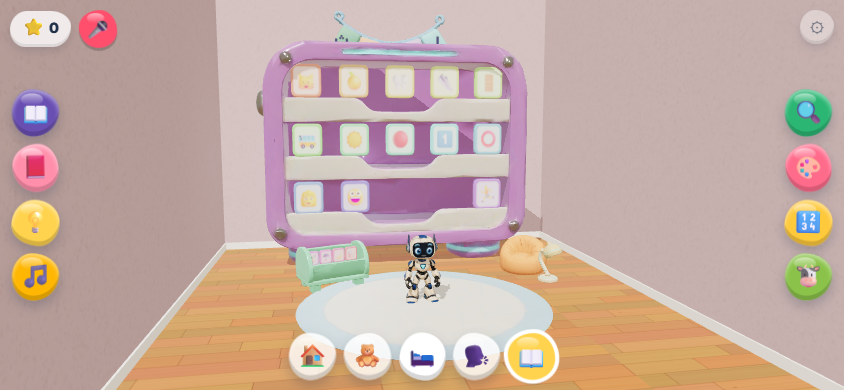
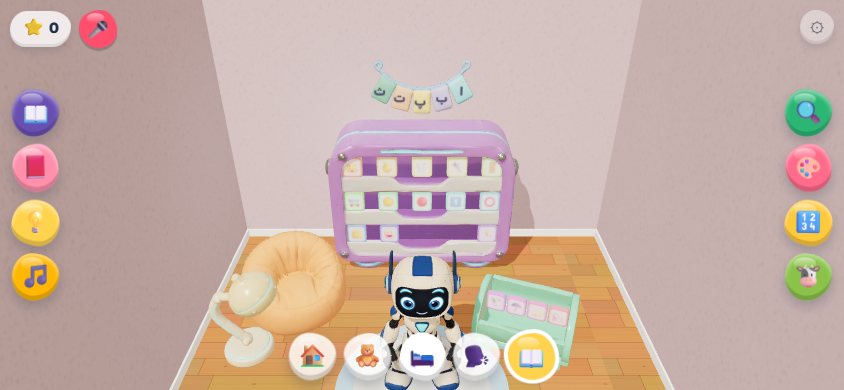
Library: built-in sizes as % of Googoo (shelf 120, bin 45, beanbag 55, lamp 70, garland 80 wide, rug 115), Googoo normal size, camera re-framed, slot-sized book tap boxes

Changed region(s): [[0.1232, 0.0308, 1.0, 1.0], [0.2156, 0.0, 0.2773, 0.1846]]

diff --git a/index.html b/index.html
@@ -417,7 +417,7 @@ const windowGlow=new THREE.PointLight(0xcfe8ff,.45,9,2);windowGlow.position.set(
 const fill=new THREE.DirectionalLight(0xffe2c4,.18);fill.position.set(5,4,8);scene.add(fill);
 // walls per room from data/layout.json (WALLS[room]: left/right x, back z, floor tint); the shell is built at RW x RD and moved/stretched here
 const WALLS={},wallSides=room.children.filter(o=>o.material===wallMat&&o!==back),skirts=room.children.filter(o=>o.material===skirtMat);winParts.forEach(o=>o.userData.z0=o.position.z);
-WALLS.library={left:-7,right:7,back:-8,floorRect:{left:-7,right:7,back:-8,front:14},floor:'#f2c48f'}; // library defaults until the layout has a "library" room (warm floor)
+WALLS.library={left:-6,right:6,back:-6,floorRect:{left:-6,right:6,back:-6,front:14},floor:'#f2c48f'}; // library defaults until the layout has a "library" room (warm floor)
 // the floor has its own rectangle (W.floorRect: left/right/back/front; missing = under the walls, to the front edge), so a wall never moves or stretches it; wood tiling follows its size
 function applyWalls(s){const W=WALLS[s]||{},l=W.left??-RW/2,r=W.right??RW/2,b=W.back??BACK,F=BACK+RD,cx=(l+r)/2,fr=W.floorRect||{},fl=fr.left??l,fR=fr.right??r,fb=fr.back??b,ff=fr.front??F;
   back.scale.x=skirts[0].scale.x=(r-l)/RW;back.position.set(cx,RH/2,b);skirts[0].position.set(cx,.14,b+.03);
@@ -1303,9 +1303,10 @@ const PROPS={
   bed:{f:'bedroom_bed',k:.75,ry:-.15,x:-.7,z:-4.9,room:'bed',cast:1}, lamp:{f:'bedroom_lamp',k:.7,x:2.4,z:-4.6,on:'nightstand',room:'bed'},
   nightstand:{f:'bedroom_nightstand',k:.225,x:2.4,z:-4.6,room:'bed'}, wardrobe:{f:'bedroom_wardrobe',k:.447,x:6,back:1,room:'bed',cast:1,pt:{x:3}}, rug:{f:'bedroom_rug',k:1.2,x:0,z:.2,sy:.12,room:'bed'},
   // library (Tripo, 2026-10-22). lib_shelf = the big shelf (category books on its boards), lib_bin = the small one (story books stand in it); the file names come from the layout
-  lib_shelf:{f:'library_bookshelf',k:2,x:0,back:1,room:'library',cast:1,pt:{k:.62}}, lib_bin:{f:'library_book_bin',k:.9,x:-2.6,z:-2.2,ry:.35,room:'library'},
-  lib_rug:{f:'bedroom_rug',k:1.2,x:0,z:.4,sy:.12,room:'library'}, lib_lamp:{f:'library_reading_lamp',k:.6,x:4.6,z:-1.4,ry:-.6,room:'library',nosq:1},
-  lib_beanbag:{f:'library_beanbag',k:.55,x:4.2,z:-2.8,ry:-.5,room:'library',nosq:1}, lib_garland:{f:'library_letter_garland',k:1.1,x:0,y:7.4,back:1,room:'library'}};
+  // sizes as rendered % of Googoo's height (as Design mode shows them): shelf 120, bin 45, beanbag 55, lamp 70, garland 80 wide, rug 115 long
+  lib_shelf:{f:'library_bookshelf',k:1.085,x:0,back:1,room:'library',cast:1}, lib_bin:{f:'library_book_bin',k:1.093,x:2.7,z:-1.2,ry:-.35,room:'library'},
+  lib_rug:{f:'bedroom_rug',k:.70,x:0,z:.3,sy:.12,room:'library'}, lib_lamp:{f:'library_reading_lamp',k:1.139,x:-4.4,z:-.9,ry:.6,room:'library',nosq:1},
+  lib_beanbag:{f:'library_beanbag',k:.928,x:-3.6,z:-2.6,ry:.5,room:'library',nosq:1}, lib_garland:{f:'library_letter_garland',k:.651,x:0,y:4.75,back:1,room:'library'}};
 const TEXK=['map','normalMap','roughnessMap','metalnessMap','emissiveMap','aoMap'],FLAT=['carpet','rug','lib_rug']; // floor mats: no tap box, rays pass through (taps on the floor still go home)
 function roomProps(s){winParts.forEach(o=>o.visible=!(GOT.has('window')&&s==='home')&&s!=='library'); // the library has no window (shelf and garland on that wall)
   newRug.visible=!(GOT.has('carpet')&&s==='home'||GOT.has('rug')&&s==='bed'||GOT.has('lib_rug')&&s==='library')}
@@ -1321,7 +1322,7 @@ function loadProp(id,ld=new THREE.GLTFLoader()){const P=PROPS[id],room=P.room;ld
     if(P.back)z=(WALLS[room]?.back??BACK)-bb.min.z+.03;if(P.side)x=(WALLS[room]?.left??-RW/2)-bb.min.z+.03; // flush with the back / left wall
     if(old)furnGroup.remove(old);addF(id,g,x,z,P.ry||0,room);
     m.traverse(o=>{if(o.isMesh){o.castShadow=!!P.cast;o.receiveShadow=true;if(FLAT.includes(id))o.raycast=()=>{}}});
-    if(FLAT.includes(id)||id==='bed'||id==='lib_shelf'||id==='lib_bin')g.remove(g.children[g.children.length-1]); // no padded tap box: the big bed's would cover the lamp and nightstand, rugs would swallow floor taps, the library shelves would cover their books
+    if(FLAT.includes(id)||id==='bed'||id.startsWith('lib_'))g.remove(g.children[g.children.length-1]); // no padded tap box: the big bed's would cover the lamp and nightstand, rugs would swallow floor taps, library pieces would cover the books (their own meshes still take taps)
     if(P.y)g.position.y=P.y;Object.assign(g.userData,{m,base:m.scale.clone(),z0:z,y0:P.y||0,ry0:P.ry||0,top:bb.max.y,pt:P.pt,on:P.on});if(P.nosq)g.userData.nosq=1;if(P.off)g.userData.off=1;
     g.visible=g.userData.room===curRoom&&!g.userData.off;
     if(id==='lamp'){const mt=g.userData.shade=gl.scene.getObjectByProperty('isMesh',true).material;mt.emissive=new THREE.Color(0xffc94d);mt.emissiveMap=mt.map;mt.emissiveIntensity=lightsOn?.15:.6;if(lampLight.parent)g.add(lampLight)}
@@ -1373,8 +1374,8 @@ function furnById(id){return furnGroup.children.find(g=>g.userData.furn===id)}
 // (N levels, evenly spaced), so they follow a shelf that is moved or resized. Which shelf and the order: layout.json rooms.library.books {big:[...], small:[...]} of
 // 'cat:<category>' / 'story:<id>'; not listed: categories big, stories small (stories put on the big shelf stand in a row on its top). Tap a book: it flies out and opens (openBook), then the page runs as before.
 const LIBSH={big:'lib_shelf',small:'lib_bin'},LIBN=5,libGroup=new THREE.Group();scene.add(libGroup);libGroup.visible=false;
-GOO.library={x:0,z:0,s:.55,portrait:{s:.65}};CAMS.library={phone:{zoom:1.2,height:.55,yaw:0,pitch:6},wide:{zoom:2,height:.5,yaw:-10,pitch:6}}; // defaults until the layout has a library room: he stands lower, the shelf shows above him
-let LIBORDER=null,libItems=[],libMesh=null,libPose=[],libHide=-1,libStoryI=0;
+GOO.library={x:0,z:0};CAMS.library={phone:{zoom:1.3,height:.9,yaw:0,pitch:30},wide:{zoom:1.35,height:1.05,yaw:0,pitch:30}}; // defaults until the layout has a library room: he stands lower, the shelf shows above him
+let LIBORDER=null,libItems=[],libMesh=null,libHit=null,libPose=[],libHide=-1,libStoryI=0;
 const libCats=()=>CATS.filter(c=>V2.some(id=>SW[id].cat===c));
 function libAll(){return [...libCats().map(c=>({key:'cat:'+c,kind:'cat',id:c,pic:SW[V2.find(id=>SW[id].cat===c)].pic,name:c})),
   ...STORIES.map(s=>({key:'story:'+s.id,kind:'story',id:s.id,s,pic:s.cover,name:s.title_en||s.id}))].slice(0,LIBN*LIBN)}
@@ -1384,6 +1385,7 @@ function libAssign(){const all=libAll(),keys=new Set(all.map(i=>i.key)),O=LIBORD
 const libTex=new THREE.CanvasTexture(Object.assign(document.createElement('canvas'),{width:512,height:512})) // 512: covers are ~40 px on a phone; 1.3 MB on the GPU;libTex.encoding=THREE.sRGBEncoding;libTex.anisotropy=4;
 const libMat=new THREE.MeshStandardMaterial({map:libTex,roughness:.6});libMat.customProgramCacheKey=()=>'libBooks';
 libMat.onBeforeCompile=sh=>{sh.vertexShader='attribute vec2 aCell;\n'+sh.vertexShader.replace('#include <uv_vertex>','#include <uv_vertex>\n\tvUv=(aCell+.04+vUv*.92)/'+LIBN+'.;')}; // each book shows its own atlas cell
+const libHitGeo=new THREE.BoxGeometry(1,1,1),libHitMat=new THREE.MeshBasicMaterial({visible:false}); // tap boxes: never drawn, only raycast
 const libGeo=(()=>{const s=new THREE.Shape(),r=.14,x=-.5,y=-.5; // a 1x1x1 rounded book: front (+z) = the cover cell, every other face = the cell's border colour
   s.moveTo(x+r,y);s.lineTo(-x-r,y);s.quadraticCurveTo(-x,y,-x,y+r);s.lineTo(-x,-y-r);s.quadraticCurveTo(-x,-y,-x-r,-y);s.lineTo(x+r,-y);s.quadraticCurveTo(x,-y,x,-y-r);s.lineTo(x,y+r);s.quadraticCurveTo(x,y,x+r,y);
   const g=new THREE.ExtrudeGeometry(s,{depth:.8,bevelEnabled:true,bevelThickness:.1,bevelSize:.05,bevelSegments:2,curveSegments:3});g.computeBoundingBox();
@@ -1395,7 +1397,9 @@ function buildBooks(){libItems=libAll();const n=libItems.length,cv=libTex.image,
     cx.font=(C*.52|0)+'px "Segoe UI Emoji","Apple Color Emoji","Noto Color Emoji",sans-serif';cx.textAlign='center';cx.textBaseline='middle';cx.fillText(it.pic,x+C/2,y+C*.54)});libTex.needsUpdate=true;
   const g=libGeo.clone(),cell=new Float32Array(n*2);libItems.forEach((it,i)=>{cell[2*i]=i%LIBN;cell[2*i+1]=LIBN-1-(i/LIBN|0)});g.setAttribute('aCell',new THREE.InstancedBufferAttribute(cell,2));
   if(libMesh){libGroup.remove(libMesh);libMesh.geometry.dispose()}
-  libMesh=new THREE.InstancedMesh(g,libMat,n);libMesh.userData.libBooks=1;libMesh.receiveShadow=true;libMesh.frustumCulled=false;libGroup.add(libMesh);layoutBooks()}
+  if(libHit){libGroup.remove(libHit)}
+  libMesh=new THREE.InstancedMesh(g,libMat,n);libMesh.receiveShadow=true;libMesh.frustumCulled=false;libMesh.raycast=()=>{};libGroup.add(libMesh);
+  libHit=new THREE.InstancedMesh(libHitGeo,libHitMat,n);libHit.userData.libBooks=1;libHit.frustumCulled=false;libGroup.add(libHit);layoutBooks()} // taps hit the invisible, bigger boxes (the full slot): at least ~44 px on a phone
 // a piece's box in its own group's space (so a turned shelf still lines up)
 function localBox(g,inv){const bb=new THREE.Box3(),mt=new THREE.Matrix4();g.userData.m.traverse(o=>{if(o.isMesh){if(!o.geometry.boundingBox)o.geometry.computeBoundingBox();bb.union(o.geometry.boundingBox.clone().applyMatrix4(mt.multiplyMatrices(inv,o.matrixWorld)))}});return bb}
 // the shelf boards, measured once per model from its geometry: heights (0..1 of the box) of upward faces across the middle third. None found = evenly spaced levels
@@ -1407,22 +1411,22 @@ function shelfLevels(g,inv,bb){const m=g.userData.m;if(m.userData.lv)return m.us
   if(!lv.length){const N=Math.max(1,Math.min(5,Math.round(S.y/(S.x*.3))));lv=[...Array(N).keys()].map(i=>.07+i*.86/N)}
   return m.userData.lv=lv}
 function layoutBooks(){if(!libMesh||!RB0)return;const A=libAssign(),idx={},Z=new THREE.Matrix4().makeScale(0,0,0),mt=new THREE.Matrix4(),q=new THREE.Quaternion(),inv=new THREE.Matrix4();libPose=[];
-  libItems.forEach((it,i)=>{idx[it.key]=i;libMesh.setMatrixAt(i,Z)});
+  libItems.forEach((it,i)=>{idx[it.key]=i;libMesh.setMatrixAt(i,Z);libHit.setMatrixAt(i,Z)});
   const shelf=k=>{const g=furnById(LIBSH[k]);return g&&g.userData.m&&!g.userData.off?g:null};let big=A.big,small=A.small;
   if(!shelf('small')){big=[...big,...small];small=[]}else if(!shelf('big')){small=[...big,...small];big=[]} // one shelf missing or hidden: all books on the other
   for(const [k,keys0] of [['big',big],['small',small]]){const g=shelf(k);if(!g||!keys0.length)continue;g.updateMatrixWorld(true);inv.copy(g.matrixWorld).invert();
     const bb=localBox(g,inv),S=bb.getSize(V3()),isBig=k==='big',top=isBig?keys0.filter(x=>x[0]==='s'):[],keys=isBig?keys0.filter(x=>x[0]==='c'):keys0, // big shelf: categories on its boards, stories (if any) in a row on its top; small shelf (bin): standing in it
-      put=(key,x,y,z,bw,bh,bt)=>{const i=idx[key];if(i===undefined)return;const p=V3().set(x,y,z).applyMatrix4(g.matrixWorld);g.getWorldQuaternion(q);libPose[i]={p,q:q.clone(),bw,bh,bt};
-        if(i!==libHide)libMesh.setMatrixAt(i,mt.compose(p,q,V3().set(bw,bh,bt)))};
+      put=(key,x,y,z,bw,bh,bt,hw,hy=y,hh=bh*1.15)=>{const i=idx[key];if(i===undefined)return;const p=V3().set(x,y,z).applyMatrix4(g.matrixWorld);g.getWorldQuaternion(q);libPose[i]={p,q:q.clone(),bw,bh,bt};
+        libHit.setMatrixAt(i,mt.compose(V3().set(x,hy,z).applyMatrix4(g.matrixWorld),q,V3().set(Math.max(bw,hw),Math.max(bh,hh),bt*1.5)));if(i!==libHide)libMesh.setMatrixAt(i,mt.compose(p,q,V3().set(bw,bh,bt)))};
     if(!isBig){const n=keys.length,bw=Math.min(S.y*1.2*.9,S.x*.86/n*.92),bh=bw/.9,bt=bw*.24;
-      keys.forEach((key,j)=>put(key,(bb.min.x+bb.max.x)/2+(j-(n-1)/2)*S.x*.86/n,bb.min.y+S.y*.55+bh/2,(bb.min.z+bb.max.z)/2,bw,bh,bt));continue} // most of the cover above the rim
-    const lv=shelfLevels(g,inv,bb).slice().reverse(),L=lv.length,per=Math.max(1,Math.ceil(keys.length/L)),slot=S.x*.8/per, // levels from the top down
+      keys.forEach((key,j)=>put(key,(bb.min.x+bb.max.x)/2+(j-(n-1)/2)*S.x*.86/n,bb.min.y+S.y*.55+bh/2,(bb.min.z+bb.max.z)/2,bw,bh,bt,S.x*.86/n*.98));continue} // most of the cover above the rim
+    const lv=shelfLevels(g,inv,bb).slice().reverse(),L=lv.length,per=Math.max(1,Math.ceil(keys.length/L)),slot=S.x*.86/per, // levels from the top down
       gaps=lv.map((y,i)=>(i?lv[i-1]:.93)-y-.06),bw=Math.min(Math.min(...gaps)*S.y*.85*.9,slot*.84),bh=bw/.9,bt=bw*.24,
       out=[...Array(per).keys()].sort((a,b)=>Math.abs(b-(per-1)/2)-Math.abs(a-(per-1)/2)); // a short bottom row keeps to the ends: Googoo stands in front of the middle
     keys.forEach((key,j)=>{const r=j/per|0,cnt=Math.min(per,keys.length-r*per),last=r===L-1,c=last&&cnt<per?out.slice(0,cnt).sort((a,b)=>a-b)[j%per]:j%per;
-      put(key,bb.min.x+S.x*.1+slot*(c+.5+(last?0:(per-cnt)/2)),bb.min.y+(lv[Math.min(r,L-1)]+.06)*S.y+bh/2,bb.max.z-bt/2-S.z*.12,bw,bh,bt)});
-    top.forEach((key,j)=>put(key,(bb.min.x+bb.max.x)/2+(j-(top.length-1)/2)*Math.min(S.x*.84/top.length,bw*1.3),bb.max.y+bh*.46,(bb.min.z+bb.max.z)/2,bw,bh,bt))}
-  libMesh.instanceMatrix.needsUpdate=true;garlandLetters()}
+      put(key,bb.min.x+S.x*.07+slot*(c+.5+(last?0:(per-cnt)/2)),bb.min.y+(lv[Math.min(r,L-1)]+.06)*S.y+bh/2,bb.max.z-bt/2-S.z*.12,bw,bh,bt,slot*.98,bb.min.y+(lv[Math.min(r,L-1)]+(gaps[Math.min(r,L-1)]+.06)/2)*S.y,(gaps[Math.min(r,L-1)]+.06)*S.y*.96)}); // tap box = the whole slot between two boards
+    top.forEach((key,j)=>put(key,(bb.min.x+bb.max.x)/2+(j-(top.length-1)/2)*Math.min(S.x*.84/top.length,bw*1.3),bb.max.y+bh*.46,(bb.min.z+bb.max.z)/2,bw,bh,bt,Math.min(S.x*.84/top.length,bw*1.3)*.98))}
+  libMesh.instanceMatrix.needsUpdate=libHit.instanceMatrix.needsUpdate=true;garlandLetters()}
 // the letter garland's five blank flags get ا ب پ ت ث (right to left), drawn on one see-through plane in front of it (flag spots measured from the model's preview)
 const GARL=[[.88,.55,'ا'],[.69,.69,'ب'],[.48,.76,'پ'],[.28,.69,'ت'],[.09,.55,'ث']];let garTex=null;
 function garlandLetters(){const g=furnById('lib_garland');if(!g||!g.userData.m)return;let pl=g.userData.letters;
@@ -1663,7 +1667,7 @@ renderer.domElement.addEventListener('pointermove',e=>{if(!down)return;const dx=
 addEventListener('pointerup',e=>{if(!down)return;
   if(!down.moved){const h=down.h;
     if(h&&h.object.userData.item){answer('item',h.object.userData.item)}
-    else if(h&&h.object.userData.libBooks){if(h.instanceId!=null)openBook(h.instanceId)}
+    else if(h&&h.object.userData.libBooks){if(h.instanceId!=null)openBook(h.instanceId)} // libHit: the books' tap boxes
     else if(h&&h.object.userData.furn){tapFurniture(h.object.userData.furn)}
     else if(h&&h.object===ball){bv.set((Math.random()-.5)*3,5,(Math.random()-.5)*2);SFX.kick()}
     else if(h&&h.object.userData.bubble)popBubble(h.object);

diff --git a/src_pash-robot.html b/src_pash-robot.html
@@ -416,7 +416,7 @@ const windowGlow=new THREE.PointLight(0xcfe8ff,.45,9,2);windowGlow.position.set(
 const fill=new THREE.DirectionalLight(0xffe2c4,.18);fill.position.set(5,4,8);scene.add(fill);
 // walls per room from data/layout.json (WALLS[room]: left/right x, back z, floor tint); the shell is built at RW x RD and moved/stretched here
 const WALLS={},wallSides=room.children.filter(o=>o.material===wallMat&&o!==back),skirts=room.children.filter(o=>o.material===skirtMat);winParts.forEach(o=>o.userData.z0=o.position.z);
-WALLS.library={left:-7,right:7,back:-8,floorRect:{left:-7,right:7,back:-8,front:14},floor:'#f2c48f'}; // library defaults until the layout has a "library" room (warm floor)
+WALLS.library={left:-6,right:6,back:-6,floorRect:{left:-6,right:6,back:-6,front:14},floor:'#f2c48f'}; // library defaults until the layout has a "library" room (warm floor)
 // the floor has its own rectangle (W.floorRect: left/right/back/front; missing = under the walls, to the front edge), so a wall never moves or stretches it; wood tiling follows its size
 function applyWalls(s){const W=WALLS[s]||{},l=W.left??-RW/2,r=W.right??RW/2,b=W.back??BACK,F=BACK+RD,cx=(l+r)/2,fr=W.floorRect||{},fl=fr.left??l,fR=fr.right??r,fb=fr.back??b,ff=fr.front??F;
   back.scale.x=skirts[0].scale.x=(r-l)/RW;back.position.set(cx,RH/2,b);skirts[0].position.set(cx,.14,b+.03);
@@ -1302,9 +1302,10 @@ const PROPS={
   bed:{f:'bedroom_bed',k:.75,ry:-.15,x:-.7,z:-4.9,room:'bed',cast:1}, lamp:{f:'bedroom_lamp',k:.7,x:2.4,z:-4.6,on:'nightstand',room:'bed'},
   nightstand:{f:'bedroom_nightstand',k:.225,x:2.4,z:-4.6,room:'bed'}, wardrobe:{f:'bedroom_wardrobe',k:.447,x:6,back:1,room:'bed',cast:1,pt:{x:3}}, rug:{f:'bedroom_rug',k:1.2,x:0,z:.2,sy:.12,room:'bed'},
   // library (Tripo, 2026-10-22). lib_shelf = the big shelf (category books on its boards), lib_bin = the small one (story books stand in it); the file names come from the layout
-  lib_shelf:{f:'library_bookshelf',k:2,x:0,back:1,room:'library',cast:1,pt:{k:.62}}, lib_bin:{f:'library_book_bin',k:.9,x:-2.6,z:-2.2,ry:.35,room:'library'},
-  lib_rug:{f:'bedroom_rug',k:1.2,x:0,z:.4,sy:.12,room:'library'}, lib_lamp:{f:'library_reading_lamp',k:.6,x:4.6,z:-1.4,ry:-.6,room:'library',nosq:1},
-  lib_beanbag:{f:'library_beanbag',k:.55,x:4.2,z:-2.8,ry:-.5,room:'library',nosq:1}, lib_garland:{f:'library_letter_garland',k:1.1,x:0,y:7.4,back:1,room:'library'}};
+  // sizes as rendered % of Googoo's height (as Design mode shows them): shelf 120, bin 45, beanbag 55, lamp 70, garland 80 wide, rug 115 long
+  lib_shelf:{f:'library_bookshelf',k:1.085,x:0,back:1,room:'library',cast:1}, lib_bin:{f:'library_book_bin',k:1.093,x:2.7,z:-1.2,ry:-.35,room:'library'},
+  lib_rug:{f:'bedroom_rug',k:.70,x:0,z:.3,sy:.12,room:'library'}, lib_lamp:{f:'library_reading_lamp',k:1.139,x:-4.4,z:-.9,ry:.6,room:'library',nosq:1},
+  lib_beanbag:{f:'library_beanbag',k:.928,x:-3.6,z:-2.6,ry:.5,room:'library',nosq:1}, lib_garland:{f:'library_letter_garland',k:.651,x:0,y:4.75,back:1,room:'library'}};
 const TEXK=['map','normalMap','roughnessMap','metalnessMap','emissiveMap','aoMap'],FLAT=['carpet','rug','lib_rug']; // floor mats: no tap box, rays pass through (taps on the floor still go home)
 function roomProps(s){winParts.forEach(o=>o.visible=!(GOT.has('window')&&s==='home')&&s!=='library'); // the library has no window (shelf and garland on that wall)
   newRug.visible=!(GOT.has('carpet')&&s==='home'||GOT.has('rug')&&s==='bed'||GOT.has('lib_rug')&&s==='library')}
@@ -1320,7 +1321,7 @@ function loadProp(id,ld=new THREE.GLTFLoader()){const P=PROPS[id],room=P.room;ld
     if(P.back)z=(WALLS[room]?.back??BACK)-bb.min.z+.03;if(P.side)x=(WALLS[room]?.left??-RW/2)-bb.min.z+.03; // flush with the back / left wall
     if(old)furnGroup.remove(old);addF(id,g,x,z,P.ry||0,room);
     m.traverse(o=>{if(o.isMesh){o.castShadow=!!P.cast;o.receiveShadow=true;if(FLAT.includes(id))o.raycast=()=>{}}});
-    if(FLAT.includes(id)||id==='bed'||id==='lib_shelf'||id==='lib_bin')g.remove(g.children[g.children.length-1]); // no padded tap box: the big bed's would cover the lamp and nightstand, rugs would swallow floor taps, the library shelves would cover their books
+    if(FLAT.includes(id)||id==='bed'||id.startsWith('lib_'))g.remove(g.children[g.children.length-1]); // no padded tap box: the big bed's would cover the lamp and nightstand, rugs would swallow floor taps, library pieces would cover the books (their own meshes still take taps)
     if(P.y)g.position.y=P.y;Object.assign(g.userData,{m,base:m.scale.clone(),z0:z,y0:P.y||0,ry0:P.ry||0,top:bb.max.y,pt:P.pt,on:P.on});if(P.nosq)g.userData.nosq=1;if(P.off)g.userData.off=1;
     g.visible=g.userData.room===curRoom&&!g.userData.off;
     if(id==='lamp'){const mt=g.userData.shade=gl.scene.getObjectByProperty('isMesh',true).material;mt.emissive=new THREE.Color(0xffc94d);mt.emissiveMap=mt.map;mt.emissiveIntensity=lightsOn?.15:.6;if(lampLight.parent)g.add(lampLight)}
@@ -1372,8 +1373,8 @@ function furnById(id){return furnGroup.children.find(g=>g.userData.furn===id)}
 // (N levels, evenly spaced), so they follow a shelf that is moved or resized. Which shelf and the order: layout.json rooms.library.books {big:[...], small:[...]} of
 // 'cat:<category>' / 'story:<id>'; not listed: categories big, stories small (stories put on the big shelf stand in a row on its top). Tap a book: it flies out and opens (openBook), then the page runs as before.
 const LIBSH={big:'lib_shelf',small:'lib_bin'},LIBN=5,libGroup=new THREE.Group();scene.add(libGroup);libGroup.visible=false;
-GOO.library={x:0,z:0,s:.55,portrait:{s:.65}};CAMS.library={phone:{zoom:1.2,height:.55,yaw:0,pitch:6},wide:{zoom:2,height:.5,yaw:-10,pitch:6}}; // defaults until the layout has a library room: he stands lower, the shelf shows above him
-let LIBORDER=null,libItems=[],libMesh=null,libPose=[],libHide=-1,libStoryI=0;
+GOO.library={x:0,z:0};CAMS.library={phone:{zoom:1.3,height:.9,yaw:0,pitch:30},wide:{zoom:1.35,height:1.05,yaw:0,pitch:30}}; // defaults until the layout has a library room: he stands lower, the shelf shows above him
+let LIBORDER=null,libItems=[],libMesh=null,libHit=null,libPose=[],libHide=-1,libStoryI=0;
 const libCats=()=>CATS.filter(c=>V2.some(id=>SW[id].cat===c));
 function libAll(){return [...libCats().map(c=>({key:'cat:'+c,kind:'cat',id:c,pic:SW[V2.find(id=>SW[id].cat===c)].pic,name:c})),
   ...STORIES.map(s=>({key:'story:'+s.id,kind:'story',id:s.id,s,pic:s.cover,name:s.title_en||s.id}))].slice(0,LIBN*LIBN)}
@@ -1383,6 +1384,7 @@ function libAssign(){const all=libAll(),keys=new Set(all.map(i=>i.key)),O=LIBORD
 const libTex=new THREE.CanvasTexture(Object.assign(document.createElement('canvas'),{width:512,height:512})) // 512: covers are ~40 px on a phone; 1.3 MB on the GPU;libTex.encoding=THREE.sRGBEncoding;libTex.anisotropy=4;
 const libMat=new THREE.MeshStandardMaterial({map:libTex,roughness:.6});libMat.customProgramCacheKey=()=>'libBooks';
 libMat.onBeforeCompile=sh=>{sh.vertexShader='attribute vec2 aCell;\n'+sh.vertexShader.replace('#include <uv_vertex>','#include <uv_vertex>\n\tvUv=(aCell+.04+vUv*.92)/'+LIBN+'.;')}; // each book shows its own atlas cell
+const libHitGeo=new THREE.BoxGeometry(1,1,1),libHitMat=new THREE.MeshBasicMaterial({visible:false}); // tap boxes: never drawn, only raycast
 const libGeo=(()=>{const s=new THREE.Shape(),r=.14,x=-.5,y=-.5; // a 1x1x1 rounded book: front (+z) = the cover cell, every other face = the cell's border colour
   s.moveTo(x+r,y);s.lineTo(-x-r,y);s.quadraticCurveTo(-x,y,-x,y+r);s.lineTo(-x,-y-r);s.quadraticCurveTo(-x,-y,-x-r,-y);s.lineTo(x+r,-y);s.quadraticCurveTo(x,-y,x,-y-r);s.lineTo(x,y+r);s.quadraticCurveTo(x,y,x+r,y);
   const g=new THREE.ExtrudeGeometry(s,{depth:.8,bevelEnabled:true,bevelThickness:.1,bevelSize:.05,bevelSegments:2,curveSegments:3});g.computeBoundingBox();
@@ -1394,7 +1396,9 @@ function buildBooks(){libItems=libAll();const n=libItems.length,cv=libTex.image,
     cx.font=(C*.52|0)+'px "Segoe UI Emoji","Apple Color Emoji","Noto Color Emoji",sans-serif';cx.textAlign='center';cx.textBaseline='middle';cx.fillText(it.pic,x+C/2,y+C*.54)});libTex.needsUpdate=true;
   const g=libGeo.clone(),cell=new Float32Array(n*2);libItems.forEach((it,i)=>{cell[2*i]=i%LIBN;cell[2*i+1]=LIBN-1-(i/LIBN|0)});g.setAttribute('aCell',new THREE.InstancedBufferAttribute(cell,2));
   if(libMesh){libGroup.remove(libMesh);libMesh.geometry.dispose()}
-  libMesh=new THREE.InstancedMesh(g,libMat,n);libMesh.userData.libBooks=1;libMesh.receiveShadow=true;libMesh.frustumCulled=false;libGroup.add(libMesh);layoutBooks()}
+  if(libHit){libGroup.remove(libHit)}
+  libMesh=new THREE.InstancedMesh(g,libMat,n);libMesh.receiveShadow=true;libMesh.frustumCulled=false;libMesh.raycast=()=>{};libGroup.add(libMesh);
+  libHit=new THREE.InstancedMesh(libHitGeo,libHitMat,n);libHit.userData.libBooks=1;libHit.frustumCulled=false;libGroup.add(libHit);layoutBooks()} // taps hit the invisible, bigger boxes (the full slot): at least ~44 px on a phone
 // a piece's box in its own group's space (so a turned shelf still lines up)
 function localBox(g,inv){const bb=new THREE.Box3(),mt=new THREE.Matrix4();g.userData.m.traverse(o=>{if(o.isMesh){if(!o.geometry.boundingBox)o.geometry.computeBoundingBox();bb.union(o.geometry.boundingBox.clone().applyMatrix4(mt.multiplyMatrices(inv,o.matrixWorld)))}});return bb}
 // the shelf boards, measured once per model from its geometry: heights (0..1 of the box) of upward faces across the middle third. None found = evenly spaced levels
@@ -1406,22 +1410,22 @@ function shelfLevels(g,inv,bb){const m=g.userData.m;if(m.userData.lv)return m.us
   if(!lv.length){const N=Math.max(1,Math.min(5,Math.round(S.y/(S.x*.3))));lv=[...Array(N).keys()].map(i=>.07+i*.86/N)}
   return m.userData.lv=lv}
 function layoutBooks(){if(!libMesh||!RB0)return;const A=libAssign(),idx={},Z=new THREE.Matrix4().makeScale(0,0,0),mt=new THREE.Matrix4(),q=new THREE.Quaternion(),inv=new THREE.Matrix4();libPose=[];
-  libItems.forEach((it,i)=>{idx[it.key]=i;libMesh.setMatrixAt(i,Z)});
+  libItems.forEach((it,i)=>{idx[it.key]=i;libMesh.setMatrixAt(i,Z);libHit.setMatrixAt(i,Z)});
   const shelf=k=>{const g=furnById(LIBSH[k]);return g&&g.userData.m&&!g.userData.off?g:null};let big=A.big,small=A.small;
   if(!shelf('small')){big=[...big,...small];small=[]}else if(!shelf('big')){small=[...big,...small];big=[]} // one shelf missing or hidden: all books on the other
   for(const [k,keys0] of [['big',big],['small',small]]){const g=shelf(k);if(!g||!keys0.length)continue;g.updateMatrixWorld(true);inv.copy(g.matrixWorld).invert();
     const bb=localBox(g,inv),S=bb.getSize(V3()),isBig=k==='big',top=isBig?keys0.filter(x=>x[0]==='s'):[],keys=isBig?keys0.filter(x=>x[0]==='c'):keys0, // big shelf: categories on its boards, stories (if any) in a row on its top; small shelf (bin): standing in it
-      put=(key,x,y,z,bw,bh,bt)=>{const i=idx[key];if(i===undefined)return;const p=V3().set(x,y,z).applyMatrix4(g.matrixWorld);g.getWorldQuaternion(q);libPose[i]={p,q:q.clone(),bw,bh,bt};
-        if(i!==libHide)libMesh.setMatrixAt(i,mt.compose(p,q,V3().set(bw,bh,bt)))};
+      put=(key,x,y,z,bw,bh,bt,hw,hy=y,hh=bh*1.15)=>{const i=idx[key];if(i===undefined)return;const p=V3().set(x,y,z).applyMatrix4(g.matrixWorld);g.getWorldQuaternion(q);libPose[i]={p,q:q.clone(),bw,bh,bt};
+        libHit.setMatrixAt(i,mt.compose(V3().set(x,hy,z).applyMatrix4(g.matrixWorld),q,V3().set(Math.max(bw,hw),Math.max(bh,hh),bt*1.5)));if(i!==libHide)libMesh.setMatrixAt(i,mt.compose(p,q,V3().set(bw,bh,bt)))};
     if(!isBig){const n=keys.length,bw=Math.min(S.y*1.2*.9,S.x*.86/n*.92),bh=bw/.9,bt=bw*.24;
-      keys.forEach((key,j)=>put(key,(bb.min.x+bb.max.x)/2+(j-(n-1)/2)*S.x*.86/n,bb.min.y+S.y*.55+bh/2,(bb.min.z+bb.max.z)/2,bw,bh,bt));continue} // most of the cover above the rim
-    const lv=shelfLevels(g,inv,bb).slice().reverse(),L=lv.length,per=Math.max(1,Math.ceil(keys.length/L)),slot=S.x*.8/per, // levels from the top down
+      keys.forEach((key,j)=>put(key,(bb.min.x+bb.max.x)/2+(j-(n-1)/2)*S.x*.86/n,bb.min.y+S.y*.55+bh/2,(bb.min.z+bb.max.z)/2,bw,bh,bt,S.x*.86/n*.98));continue} // most of the cover above the rim
+    const lv=shelfLevels(g,inv,bb).slice().reverse(),L=lv.length,per=Math.max(1,Math.ceil(keys.length/L)),slot=S.x*.86/per, // levels from the top down
       gaps=lv.map((y,i)=>(i?lv[i-1]:.93)-y-.06),bw=Math.min(Math.min(...gaps)*S.y*.85*.9,slot*.84),bh=bw/.9,bt=bw*.24,
       out=[...Array(per).keys()].sort((a,b)=>Math.abs(b-(per-1)/2)-Math.abs(a-(per-1)/2)); // a short bottom row keeps to the ends: Googoo stands in front of the middle
     keys.forEach((key,j)=>{const r=j/per|0,cnt=Math.min(per,keys.length-r*per),last=r===L-1,c=last&&cnt<per?out.slice(0,cnt).sort((a,b)=>a-b)[j%per]:j%per;
-      put(key,bb.min.x+S.x*.1+slot*(c+.5+(last?0:(per-cnt)/2)),bb.min.y+(lv[Math.min(r,L-1)]+.06)*S.y+bh/2,bb.max.z-bt/2-S.z*.12,bw,bh,bt)});
-    top.forEach((key,j)=>put(key,(bb.min.x+bb.max.x)/2+(j-(top.length-1)/2)*Math.min(S.x*.84/top.length,bw*1.3),bb.max.y+bh*.46,(bb.min.z+bb.max.z)/2,bw,bh,bt))}
-  libMesh.instanceMatrix.needsUpdate=true;garlandLetters()}
+      put(key,bb.min.x+S.x*.07+slot*(c+.5+(last?0:(per-cnt)/2)),bb.min.y+(lv[Math.min(r,L-1)]+.06)*S.y+bh/2,bb.max.z-bt/2-S.z*.12,bw,bh,bt,slot*.98,bb.min.y+(lv[Math.min(r,L-1)]+(gaps[Math.min(r,L-1)]+.06)/2)*S.y,(gaps[Math.min(r,L-1)]+.06)*S.y*.96)}); // tap box = the whole slot between two boards
+    top.forEach((key,j)=>put(key,(bb.min.x+bb.max.x)/2+(j-(top.length-1)/2)*Math.min(S.x*.84/top.length,bw*1.3),bb.max.y+bh*.46,(bb.min.z+bb.max.z)/2,bw,bh,bt,Math.min(S.x*.84/top.length,bw*1.3)*.98))}
+  libMesh.instanceMatrix.needsUpdate=libHit.instanceMatrix.needsUpdate=true;garlandLetters()}
 // the letter garland's five blank flags get ا ب پ ت ث (right to left), drawn on one see-through plane in front of it (flag spots measured from the model's preview)
 const GARL=[[.88,.55,'ا'],[.69,.69,'ب'],[.48,.76,'پ'],[.28,.69,'ت'],[.09,.55,'ث']];let garTex=null;
 function garlandLetters(){const g=furnById('lib_garland');if(!g||!g.userData.m)return;let pl=g.userData.letters;
@@ -1662,7 +1666,7 @@ renderer.domElement.addEventListener('pointermove',e=>{if(!down)return;const dx=
 addEventListener('pointerup',e=>{if(!down)return;
   if(!down.moved){const h=down.h;
     if(h&&h.object.userData.item){answer('item',h.object.userData.item)}
-    else if(h&&h.object.userData.libBooks){if(h.instanceId!=null)openBook(h.instanceId)}
+    else if(h&&h.object.userData.libBooks){if(h.instanceId!=null)openBook(h.instanceId)} // libHit: the books' tap boxes
     else if(h&&h.object.userData.furn){tapFurniture(h.object.userData.furn)}
     else if(h&&h.object===ball){bv.set((Math.random()-.5)*3,5,(Math.random()-.5)*2);SFX.kick()}
     else if(h&&h.object.userData.bubble)popBubble(h.object);

diff --git a/sw.js b/sw.js
@@ -1,6 +1,6 @@
 // Googoo Robo service worker. tools/build.py rewrites the two versions below on every build:
 // a new page build = new shell cache, new/changed audio = new audio cache; old caches are deleted on activate.
-const SHELL_V='fd6dde93b3',AUDIO_V='92904cdb22',SHELL='googoo-shell-'+SHELL_V,AUDIO='googoo-audio-'+AUDIO_V;
+const SHELL_V='f5ea50a2de',AUDIO_V='92904cdb22',SHELL='googoo-shell-'+SHELL_V,AUDIO='googoo-audio-'+AUDIO_V;
 const PRE=['./','manifest.webmanifest','icons/icon-192.png','icons/icon-512.png','icons/apple-touch-icon.png','audio/manifest.json','vocab/stories.json',
   'https://cdnjs.cloudflare.com/ajax/libs/three.js/r128/three.min.js',
   'https://cdn.jsdelivr.net/npm/three@0.128.0/examples/js/loaders/GLTFLoader.js',

diff --git a/docs/HANDOFF.md b/docs/HANDOFF.md
@@ -29,7 +29,7 @@
    - **`editor.js`**, loaded only with `?design=1`: the page stops its own copy of the game and shows the editor; the real game runs in an iframe (`index.html?frame=1`) sized to the device preset, driven through its globals (`applyLayout`, `applyWalls`, `loadProp`, `placeProps`, `furnGroup`...). Undo history = JSON snapshots of the layout. Picking uses the GLB meshes (not the game's padded tap boxes, which are sized before the portrait shrink), rugs by their box.
    - **v2 (2026-10-22):** per room `googoo` {x, z, ry, s, portrait{}} = his home (`HOME`, `setHome()` in resize(); the loop walks him back there, robot scale x s; `measureRobot()` measures at scale 1); `resize()` frames him at size 1 around the origin as before, then moves/scales the camera to `HOME`; framing uses the CSS `--b` size, never the (layout-scaled) button width. Per room `camera` {phone|wide: zoom (x auto distance), height (x his height), yaw, pitch in degrees}: used only on room screens without cards/toys (`camKey()`: upright and < 700 px wide = phone); `CAMAUTO` exposes the auto pitch/distance. `walls.floorRect` {left, right, back, front}: missing = under the walls to the front edge 7.8 (fixes the floor that followed the back wall and left beige ground in front); side walls now span back..front; wood tiling scales with the floor. `ui.top` / `ui.nav` {order, hide, size, shape, colors} (gear and room tabs can't be hidden; nav size falls back to `ui.size`). Props: `on` = sits on another piece's real top (placeProps; default `SITS={lamp:'nightstand'}` when the layout says nothing, `on:null` = free); `builtin:true` entries move the code-built book and star mobile. The editor shows prop size as % of Googoo's rendered height (each GLB carries its own inner real_size scale, so k alone is misleading; k is unchanged). Wardrobe default k .893 -> .447 (= 87% of Googoo). v3: resize() frames his base size and only moves the camera to his place (no scaling) on room screens, so `s` really resizes him; card screens/stories/toys still scale the camera with him (same on-screen framing as s=1). Camera tab "Copy view to…". The book/star entries are added to the layout only when changed (virtual until then). v4: `ui.style` 'jelly' (default; body.jelly CSS: blob radii per nth-child, inset gloss/lip, ::before highlight, transform-only idle wobble `jidle`, tap `jtap` added by one pointerdown listener) | 'classic'. `ui.free[phone|wide][id]` = {ax l|r, ay t|b, x, y} in % of the safe area (`safeIns()` reads env() via #safeProbe; Design mode sets `window.__safe` to the device's notch/home bar); ids = rail buttons, score, bTalk, parentBtn, tab-<room>. `applyFree()` (end of resize()) moves those buttons into `#free` (no transformed parents) and places them in px; off on say/book and while a card deck is up; `navB()` and the `cur` tab state look up `[data-r]` anywhere. Card screens (2026-10-22 fix): resize() ends with a clamp so the back wall's top edge (RH) is never below the screen top; upright, it zooms in (camera.zoom, reset to 1 at the start of resize) just enough that his head can stay under the cards, and lets the cards cover his head if his feet would otherwise go under the tabs. The server refuses a second copy on the same port (Windows SO_REUSEADDR let two run), `--layout FILE` edits another file (tests).
    - **`tools/design_server.py`** (stdlib, 127.0.0.1:8770, `tools/design_mode.bat`): static files, `/models/x.glb` falls back to `Downloads\Pash 3D\props\optimized\`, `GET /props` (class from docs/tripo-props.md, tris), `POST /save` (validates, backup `data/layout.backup-*.json`, last 20, git-ignored), `POST /publish[?dry=1]` (build, copy newly used GLBs into models/, commit only layout.json + index.html + sw.js + those models, pull --rebase origin dev, push devsite dev:main and origin dev; refuses if not on dev or if src_pash-robot.html has uncommitted edits). POSTs need the `X-Design: 1` header. `--selftest` checks validation and the dry run.
-1f. **Library room and pages on his face (2026-10-22, dev).** 4th room `library` (📖 tab, `data-r="library"`; the old book-over-the-room screen is gone, `setRoom('book')` redirects). Lavender walls, warm floor, greeting `book_open`. Props (Tripo, `models/library_*.glb`): `lib_shelf` library_bookshelf (cast), `lib_bin` library_book_bin, `lib_beanbag`, `lib_lamp` library_reading_lamp, `lib_garland` (ا ب پ ت ث drawn in code on one see-through plane, `GARL` = flag spots), `lib_rug` = bedroom_rug; no window. Built-in defaults (`PROPS`, `WALLS.library`, `GOO.library` s .55 / portrait .65, `CAMS.library` phone + wide views) are used while layout.json has no `library` room; Design mode adds it on the first Save. **Books:** one `InstancedMesh` (`libMesh`, shared rounded-box `libGeo`, 512 px atlas `libTex` of cover colour + emoji, per-instance `aCell` in an `onBeforeCompile` shader; 1 draw call). `layoutBooks()` (end of `placeProps`) measures the shelf boards from the model (`shelfLevels`: upward faces across the middle third, board + lip merged; fallback evenly spaced) and stands the books on them, lifted over the lips; a short bottom row keeps to the ends (Googoo stands in front of the middle); bin books stand in the bin. Order/shelf: layout `rooms.library.books {big:[...], small:[...]}` of `cat:<category>` / `story:<id>` (`libAssign()`, missing = categories big, stories small; stories put on the big shelf stand on its top). Tap a book (`openBook`): it flies to the screen centre, grows and its cover swings open (`libFly`, 600 ms), then `bookCat` / `storyPage`. Left rail: bNStory (Story = next story book), bRead 📕 (new: Read to me = a random picture book from the shelf), bLamp, bSing; right rail LEARN. Book screen rails: bBookHome = Back to the shelf, bStories = next story. Stories: Googoo sits on the rug at his place (SIT_R / SITH, unchanged); the story cards are unchanged. **No more card for the picture book and Say it:** `faceShow(pic, fa, go)` puts the page on his face screen (`pagePic` overrides every expression, no blinks; `compose` ignores the gaze for pictures, so the kit redraws only on a page change), the camera glides (`faceStep`/`fvApply`, 0.6 s, from `CB` = the room camera saved at the end of `resize()`) to a head close-up (head + shoulders ~70% of the height; on upright screens width-limited so the arrows fit), `#earL/#earR` jelly arrows are placed every frame beside the projected `EARS` (clamped to the safe area), `#faceWord` (Farsi word under his face) only with Show words, `endGame()` calls `faceOff()`. Say it: right = next, left = previous (`sayHist`). Multi-choice card games and stories keep their cards. Tests (real GPU, scratch layout on 8780): all books visible + tappable at 390x844 / 360x640 / 844x390 / 820x1180, open / next / previous / Back, story sits, Say it on the face, arrows beside the ears, no face redraw while a page stays, no-twitch idle and sitting 0.000 mm / 10 s, other rooms unchanged, Design mode library select / move + resize shelf (books follow) / ⇄ + drag / Save. Shots: `docs/layout-shots/library-*.png`, `book-face*.png`, `sayit-face*.png`, `design-library*.png`.
+1f. **Library room and pages on his face (2026-10-22, dev).** 4th room `library` (📖 tab, `data-r="library"`; the old book-over-the-room screen is gone, `setRoom('book')` redirects). Lavender walls, warm floor, greeting `book_open`. Props (Tripo, `models/library_*.glb`): `lib_shelf` library_bookshelf (cast), `lib_bin` library_book_bin, `lib_beanbag`, `lib_lamp` library_reading_lamp, `lib_garland` (ا ب پ ت ث drawn in code on one see-through plane, `GARL` = flag spots), `lib_rug` = bedroom_rug; no window. Built-in defaults (`PROPS`, `WALLS.library`, `GOO.library` at normal size, `CAMS.library` phone + wide views; sizes as rendered % of Googoo's height, the editor's basis incl. each GLB's real-size root: shelf 120, bin 45, beanbag 55, reading lamp 70, garland 80 wide, rug 115 long; k = % / (box at k=1 x RB0.h/RB.h)) are used while layout.json has no `library` room; Design mode adds it on the first Save. **Books:** one `InstancedMesh` (`libMesh`, shared rounded-box `libGeo`, 512 px atlas `libTex` of cover colour + emoji, per-instance `aCell` in an `onBeforeCompile` shader; 1 draw call; taps go to `libHit`, invisible boxes the size of the whole slot, ≥ 44 px on a 390-wide phone; library props have no padded tap box). `layoutBooks()` (end of `placeProps`) measures the shelf boards from the model (`shelfLevels`: upward faces across the middle third, board + lip merged; fallback evenly spaced) and stands the books on them, lifted over the lips; a short bottom row keeps to the ends (Googoo stands in front of the middle); bin books stand in the bin. Order/shelf: layout `rooms.library.books {big:[...], small:[...]}` of `cat:<category>` / `story:<id>` (`libAssign()`, missing = categories big, stories small; stories put on the big shelf stand on its top). Tap a book (`openBook`): it flies to the screen centre, grows and its cover swings open (`libFly`, 600 ms), then `bookCat` / `storyPage`. Left rail: bNStory (Story = next story book), bRead 📕 (new: Read to me = a random picture book from the shelf), bLamp, bSing; right rail LEARN. Book screen rails: bBookHome = Back to the shelf, bStories = next story. Stories: Googoo sits on the rug at his place (SIT_R / SITH, unchanged); the story cards are unchanged. **No more card for the picture book and Say it:** `faceShow(pic, fa, go)` puts the page on his face screen (`pagePic` overrides every expression, no blinks; `compose` ignores the gaze for pictures, so the kit redraws only on a page change), the camera glides (`faceStep`/`fvApply`, 0.6 s, from `CB` = the room camera saved at the end of `resize()`) to a head close-up (head + shoulders ~70% of the height; on upright screens width-limited so the arrows fit), `#earL/#earR` jelly arrows are placed every frame beside the projected `EARS` (clamped to the safe area), `#faceWord` (Farsi word under his face) only with Show words, `endGame()` calls `faceOff()`. Say it: right = next, left = previous (`sayHist`). Multi-choice card games and stories keep their cards. Tests (real GPU, scratch layout on 8780): all books visible + tappable at 390x844 / 360x640 / 844x390 / 820x1180, open / next / previous / Back, story sits, Say it on the face, arrows beside the ears, no face redraw while a page stays, no-twitch idle and sitting 0.000 mm / 10 s, other rooms unchanged, Design mode library select / move + resize shelf (books follow) / ⇄ + drag / Save. Shots: `docs/layout-shots/library-*.png`, `book-face*.png`, `sayit-face*.png`, `design-library*.png`.
 2. **Engine: prototype both** web (three.js) and Unity with the same small scene: the Tripo robot in the bedroom, lamp on/off, tap to react and dance, one whispered line with the face screen. Waiting on the user: (a) Unity Hub is installed; they sign in, pick the Personal licence, install the LTS editor with Android Build Support; (b) then add Unity's official Claude Code plugin (Anthropic Directory "Unity", beta) and check whether it can drive the editor; (c) buy Tripo (US$28 for one month), re-generate the robot as **Private** with multi-view (front, side and back images in `Downloads\Pash 3D\`), Generate in Parts on, about 30k polygons, export **GLB** to `Downloads\Pash 3D\`. The first Tripo result (free plan, public) looked good; its face is painted on, so cover it with our animated canvas face screen. Animate the rigid parts in code (no skinning). Pro Refine (a human fix, about $10) is not needed yet.
 3. **three.js upgrade (r128 -> current)** only after the phone layout is approved (needed for glTF-Transform, three-pathfinding etc.; switch to an import map).
 4. **Open world idea (agreed direction, not started):** keep the house as home base, then a small Persian neighbourhood: courtyard with a pool (حیاط، حوض) -> street (کوچه) -> fruit shop -> park -> farm (-> beach). Tap-to-walk plus a big picture map; no joystick. Props from Tripo in one style; KayKit (CC0) only if its style matches.
